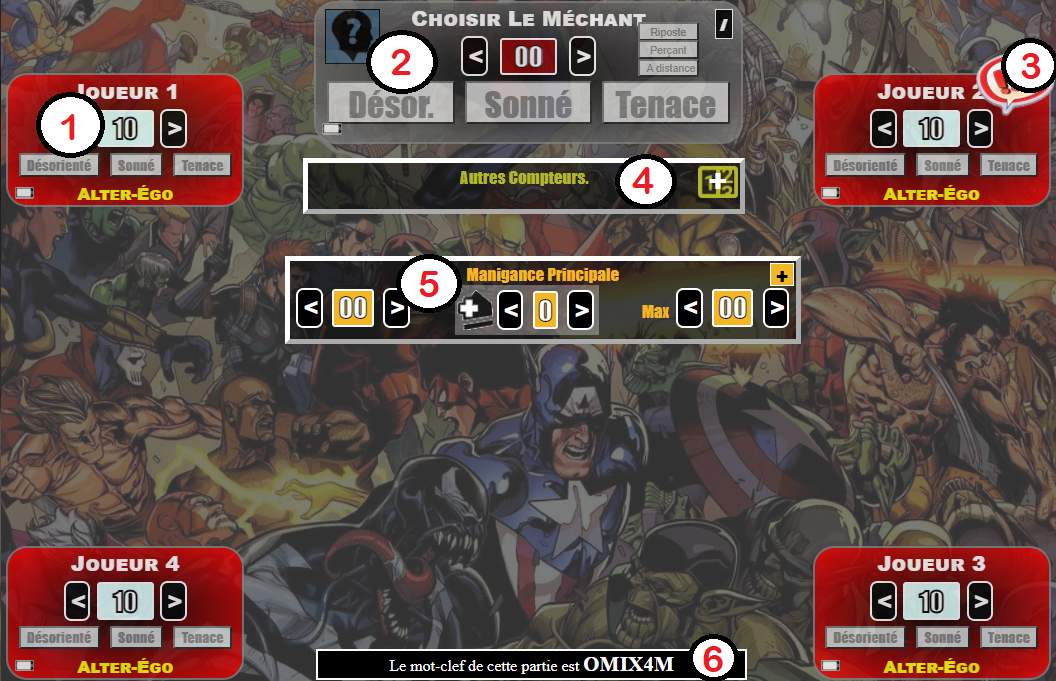
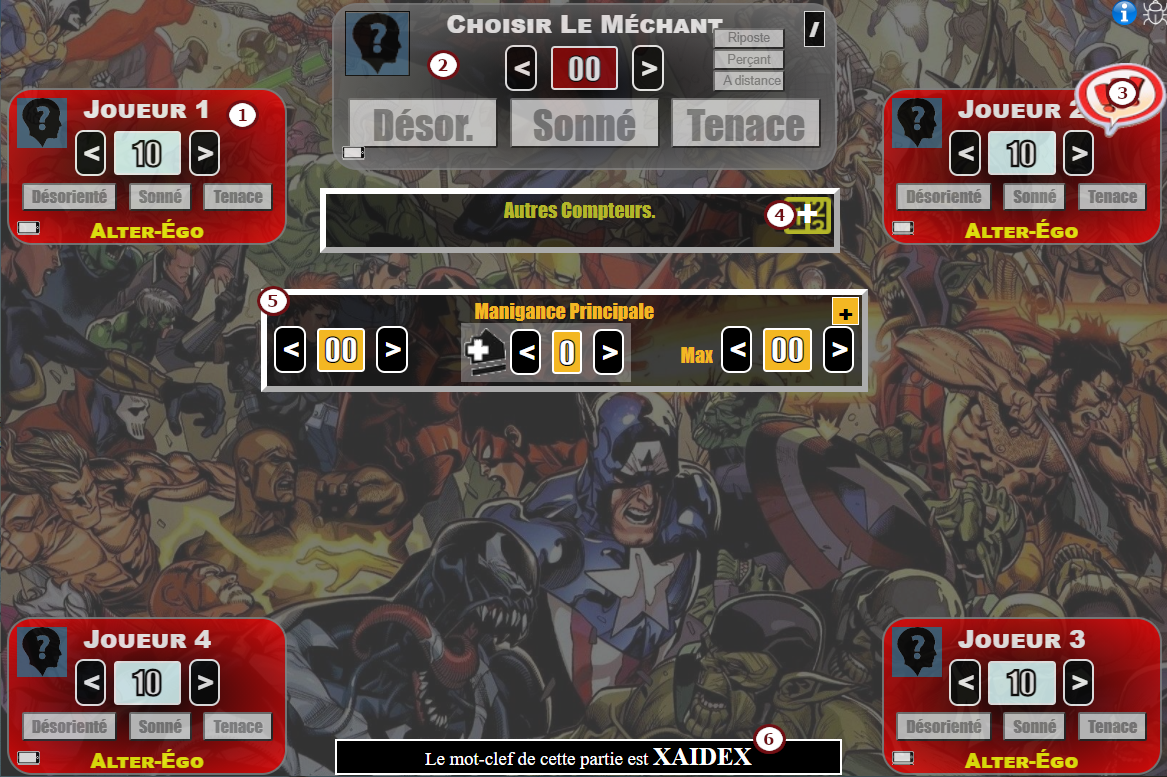
3.0c
(Mettez-vous d'accord avec tous les joueurs pour choisir une répréntation des fiches de joueur ayant le plus de sens pour tout le monde. A partir de là, il vous suffit de renommer les fiches de joueurs qui portent simplement un numéro en début de partie.)

diff --git a/doc/readme.md b/doc/readme.md
@@ -1,8 +1,8 @@
 # Installation de '*Remote Champions*'
 ## Prérequis
-Pour installer mc sur un serveur vous appartenant, il vous faudra quelques éléments indispensables : un [serveur web prenant en charge PHP](https:#serveur-web-php) et une [base de donnée type mySql](https:#base-de-données).
+Pour installer *Remote Champions* sur un serveur vous appartenant, il vous faudra quelques éléments indispensables : un [serveur web prenant en charge PHP](https:#serveur-web-php) et une [base de donnée type mySql](https:#base-de-données).
 #### Serveur Web PHP
-En complément de l'installation du service PHP, celui-ci (le compte avec lequel le service fonctionne) doit avoir les **accès en écriture et suppression sur le répertoire racine de l'installation** et sur tous les fichiers/dossiers inclus. Ces autorisations sont nécessaires pour mener à bien les processus d'installation et de mise à jour.
+En complément de l'installation du service PHP, celui-ci (le compte avec lequel le service fonctionne) doit avoir les **accès en écriture et suppression sur le répertoire racine de l'installation** et sur tous les fichiers/dossiers inclus. Ces autorisations sont nécessaires pour mener à bien les processus d'installation et de mise à jour.  
 De plus, le moteur php doit permettre les lectures de fichiers distants (http get) pour que l'installation et la mise à jour puissent se dérouler sans problème.  
 Fonctionnement testé avec succès sur les configurations/versions suivantes :
  - Apache 2.4
@@ -12,7 +12,7 @@ Il vous faut un service de base de donnée relationnelle type *mySql*.
 Fonctionnement testé avec succès sur les configuration/versions suivantes :
  - MariaDB 10
 ## Séquence d'installation
-1. Copier tout le contenu (y compris le(s) sous-dossier(s)) du dossier **Setup** du présent repositery vers le dossier choisi sur votre serveur pour héberger le site mc.
+1. Copier tout le contenu (y compris le(s) sous-dossier(s)) du dossier **Setup** du présent repositery vers le dossier choisi sur votre serveur pour héberger le site *Remote Champions*.
 1. Vérifier que votre installation de PHP a les droits nécessaires pour écrire et supprimer des fichiers dans le dossier choisi et ses sous-dossiers.
 1. Il vous faut un identfiant pour vous connecter à votre serveur de base de données.
 1. Si vous avez déja préparé une nouvelle base de données vierge sur votre serveur de base de donnée, vous pouvez passer directement à l'[étape 6](https:#setupLaunch)
@@ -42,7 +42,7 @@ Utilisez votre navigateur Internet, depuis votre ordinateur ou depuis votre smar
 - Dans tous les écrans du site, en cliquant sur le bouton de rapport de bug **(6)**, vous serez directement dirigé sur *gitHub* afin de saisir une description du problème que vous rencontrez (Un compte gratuit *gitHub* sera nécessaire. Merci pour vos retours!).
 ## Création d'une nouvelle partie
 La page de création d'une nouvelle partie ressemblera à l'illustration ci-dessous:  
-![Page de création de partie](illus6.png "Page de création de partie") 
+![Page de création de partie](illus6.png "Page de création de partie")  
 Pour créer une nouvelle partie, vous pouvez choisir le nombre de joueurs (1 à 4) depuis le menu **(1)**.  
 **À noter :** vous pouvez également créer une partie ayant pour seul objectif de suivre les information d'un méchant en cliquant sur la case "*Méchant seul*" **(2)**. cela peut, par exemple, être utile pour créer plusieurs parties et suivre plusieurs méchants, dans une partie avec *Kang*.  
 Une clef d'accès par défaut est automatiquement affectée à la partie que vous allez créer. Si vous le souhaitez, vous pouvez modifier la valeur de cette clef proposée dans le champ "*Clef d'accès*" **(3)** (A noter: les clefs d'accès doivent impérativement comporter 6 caractères et être uniques).  
@@ -57,24 +57,28 @@ Après que vous avez créé votre nouvelle partie, vous serez dirigé vers la pa
 
 Si une erreur empèche la création de la partie, elle vous sera communiquer sur la même page, afin que vous puissiez retenter la création.
 ## Utilisation du site en partie
-![Ecran principal](illus2.png "Ecran principal")
-L'écran principal présente une synthèse de la partie avec les élements suivants:
- 1. La fiche de joueur, qui représente l'état de chaque joueur (elle est détaillée [plus loin](https:#Gestiondujoueur)). (Mettez-vous d'accord avec tous les joueurs pour choisir une répréntation des fiches de joueur ayant le plus de sens pour tout le monde. A partir de là, il vous suffit de renommer les fiches de joueurs qui portent simplement un numéro en début de partie.)
- 1. La synthèse du méchant qui fournit plusieurs informations sur la situation actuelle du méchant de la partie (elle est détaillée [plus loin](https#Gestionduméchant))
- 1. L'indication du premier joueur. Le premier joueur est désigné au hasard parmi les joueurs de la partie lors de la sélection du méchant. Il suffira ensuite de cliquer sur l'indication du premier joueur pour indiquer que c'est le tour du joueur suivant (l'indication se déplace).
- 1. Un ensemble de compteurs annexes. A vous de voir si vous avez besoin d'autres compteurs que les principaux prévus : ce pourra servir pour suivre des éléments spécifiques de certaines missions...
- 1. La gestion des manigances (détaillée [plus loin](https#GestiondesManigances)). En début de partie, aprés avoir choisi le méchant, il faudra choisir la manigance principale en cliquant sur le titre "**Manigance Principale**".
- 1. A tout moment, le mot-clef d'accès à la partie, à communiquer à tous les joueurs pour que ceux-ci accèdent à la partie est rappelé en bas de page. En cliquant sur le mot-clef de la partie, il est possible d'ouvrir l'écran d'administration.
-*En construction*
+# Présentation de la page de partie
+La page pricnipale d'une partie qui vient d'^tre créée ressemble à l'illustration suivante:  
+![Ecran principal](illus2.png "Ecran principal")  
+Cette page est divisée en différentes zones:
+ 1. La fiche de joueur, qui représente l'état de chaque joueur (elle est détaillée [plus loin](https:#Gestiondujoueur)).
+ 2. La synthèse du méchant qui fournit les informations sur la situation actuelle du méchant de la partie (elle est détaillée [plus loin](https#Gestionduméchant))
+ 3. L'indicateur du premier joueur. Le premier joueur est désigné au hasard parmi les joueurs de la partie lors de la sélection de la manigance principale. Il suffira ensuite de cliquer sur l'indicateur du premier joueur pour indiquer que c'est le tour du joueur suivant (l'indicateur se déplace).
+ 4. Un ensemble de compteurs annexes. A vous de voir si vous avez besoin d'autres compteurs que les principaux prévus : ce pourra servir pour suivre des éléments spécifiques de certaines missions...
+ 5. La gestion des manigances (détaillée [plus loin](https#GestiondesManigances)).
+ 6. A tout moment, le **mot-clef d'accès** à la partie, à communiquer à tous les joueurs pour que ceux-ci puissent la rejoindre est rappelé en bas de page. (nota : En cliquant dessus, il est possible d'ouvrir l'écran d'administration décrit plus loin).
+## Paramètrage initial de la partie
+Mettez-vous d'accord avec tous les joueurs pour choisir une réprésentation des fiches de joueur ayant le plus de sens pour tout le monde. A partir de là, il vous suffit de renommer les fiches de joueurs qui portent simplement un numéro en début de partie.
+*(En construction)*
 ## Gestion du méchant
 ![Ecran principal](illus3.png "Ecran principal")
 
-*En construction*
+*(En construction)*
 ## Gestion du joueur
 ![Ecran principal](illus4.png "Ecran principal")
 
-*En construction*
+*(En construction)*
 ## Gestion des Manigances
 ![Ecran principal](illus5.png "Ecran principal")
 
-*En construction*
+*(En construction)*
